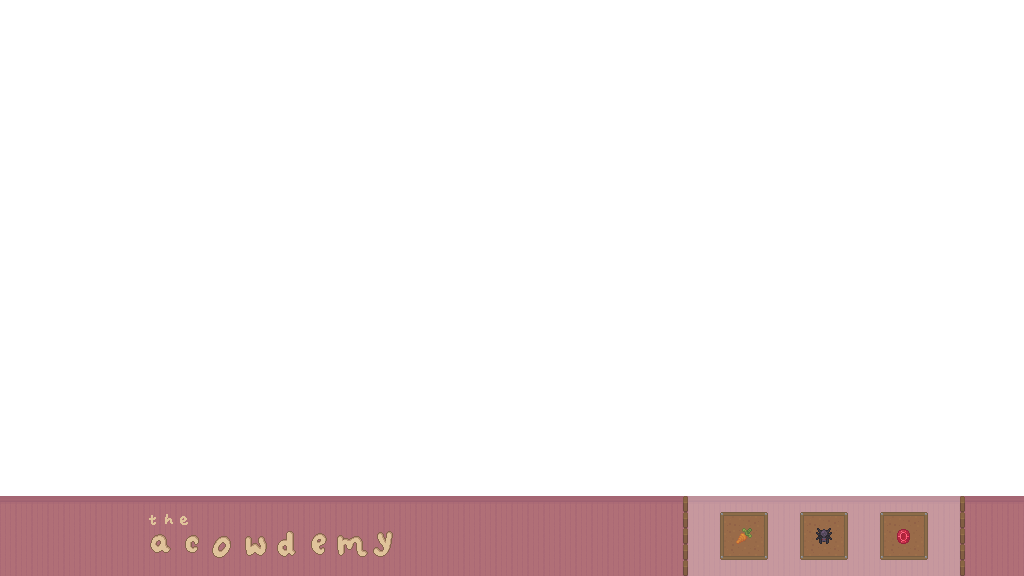
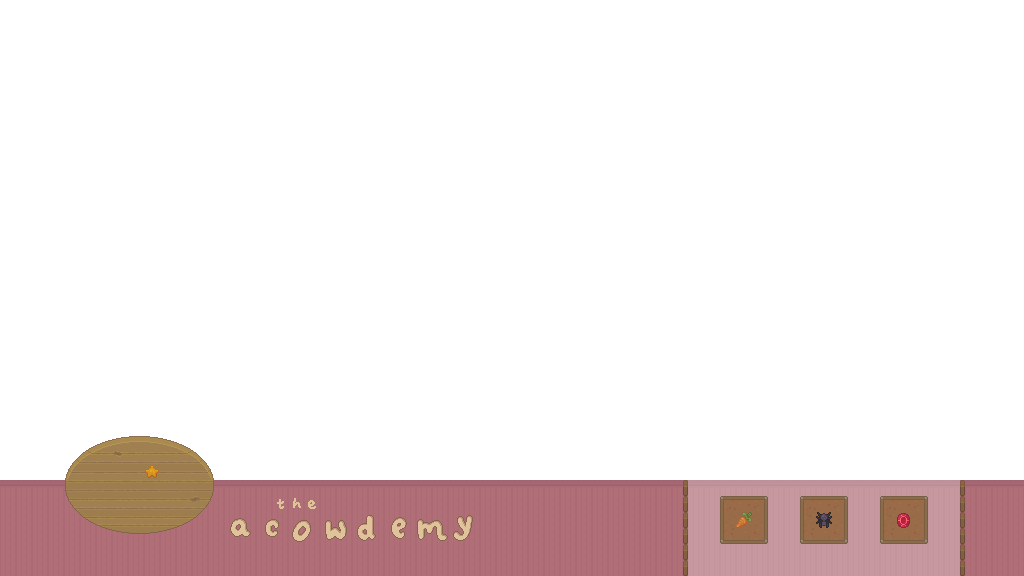
simple collectables integrated

Changed region(s): [[0.0, 0.75, 1.0, 1.0]]

diff --git a/client/interactiveObj.js b/client/interactiveObj.js
@@ -1,7 +1,7 @@
 const HOME_DOOR = new Object({
     position: {
         x: 480,
-        y: 155
+        y: 130
     },
     image: Images.home,
     frames: {
@@ -12,7 +12,7 @@ const HOME_DOOR = new Object({
 const BARN_DOOR = new Object({
     position: {
         x: -375,
-        y: 1050
+        y: 1025
     },
     image: Images.barn,
     frames: {
@@ -23,7 +23,7 @@ const BARN_DOOR = new Object({
 const HUT_DOOR = new Object({
     position: {
         x: 4100,
-        y: 705
+        y: 680
     },
     image: Images.hut,
     frames: {
@@ -34,7 +34,7 @@ const HUT_DOOR = new Object({
 const CHEST = new Object({
     position: {
         x: 750,
-        y: 125
+        y: 100
     },
     image: Images.chest,
     frames: {
@@ -45,7 +45,7 @@ const CHEST = new Object({
 const MAIN_GATE = new Object({
     position: {
         x: 73,
-        y: 905
+        y: 880
     },
     image: Images.gateOne,
     frames: {
@@ -56,7 +56,7 @@ const MAIN_GATE = new Object({
 const SECOND_GATE = new Object({
     position: {
         x: 3993,
-        y: 905
+        y: 880
     },
     image: Images.gateTwo,
     frames: {

diff --git a/client/index.html b/client/index.html
@@ -17,14 +17,14 @@
                 <h3 id="user">username-hello</h3>
             </div>
             <div id="items-text">
-                <h2 id="item-text">
-                    000
+                <h2 id="veg">
+                    
                 </h2>
-                <h2 id="item-text">
-                    000
+                <h2 id="bug">
+                    
                 </h2>
-                <h2 id="item-text">
-                    000
+                <h2 id="gem">
+                    
                 </h2>
             </div>
         </div>
@@ -43,6 +43,7 @@
 
     <!--scripts-->
     <script src="./objects.js"></script>
+    <script src="./dom.js"></script>
     <script src="./classes.js"></script>
     <script src="./bounds.js"></script>
     <script src="./sprites.js"></script>

diff --git a/client/dom.js b/client/dom.js
@@ -1,0 +1,14 @@
+const userDiv = document.querySelector('#users-text')
+const username = document.querySelector('#user');
+const level = document.querySelector('#level');
+
+const itemsDiv = document.querySelector('#items-text');
+const veg = document.querySelector('#veg');
+const bug = document.querySelector('#bug');
+const gem = document.querySelector('#gem');
+
+const updateItems = () => {
+    veg.textContent = `${String(INVENTORY.plants).padStart(3, 0)}`;
+    bug.textContent = `${String(INVENTORY.bugs).padStart(3, 0)}`;
+    gem.textContent = `${String(INVENTORY.coins).padStart(3, 0)}`;
+}

diff --git a/client/actions.js b/client/actions.js
@@ -56,7 +56,8 @@ const goHut = () => {
 const collect = () => {
     for (i = 0; i< COLLECTABLES.length; i++) {
         const BOX = COLLECTABLES[i];
-        if (hitBox({player: PLAYER, bound: BOX}) && enteredZone({player: PLAYER, bound: BOX}) && Math.random() < 0.01) {
+        if (hitBox({player: PLAYER, bound: BOX}) && enteredZone({player: PLAYER, bound: BOX}) && Math.random() < 0.1) {
+            console.log("Item found!")
             if (Math.random() > 0.5) INVENTORY.bugs +=1;
             else if (Math.random() > 0.15) INVENTORY.plants +=1;
             else INVENTORY.coins +=1;

diff --git a/client/index.js b/client/index.js
@@ -21,6 +21,7 @@ function animate() {
     goBarn();
     goHut();
     openChest();
+    updateItems();
     
     window.addEventListener('keydown', keyDownEvent);
     window.addEventListener('keyup', keyUpEvent);

diff --git a/client/objects.js b/client/objects.js
@@ -88,7 +88,7 @@ let moving = false;
 
 const offset = {
     x: -1605,
-    y: -775
+    y: -800
 };
 
 // IN-GAME ITEMS
